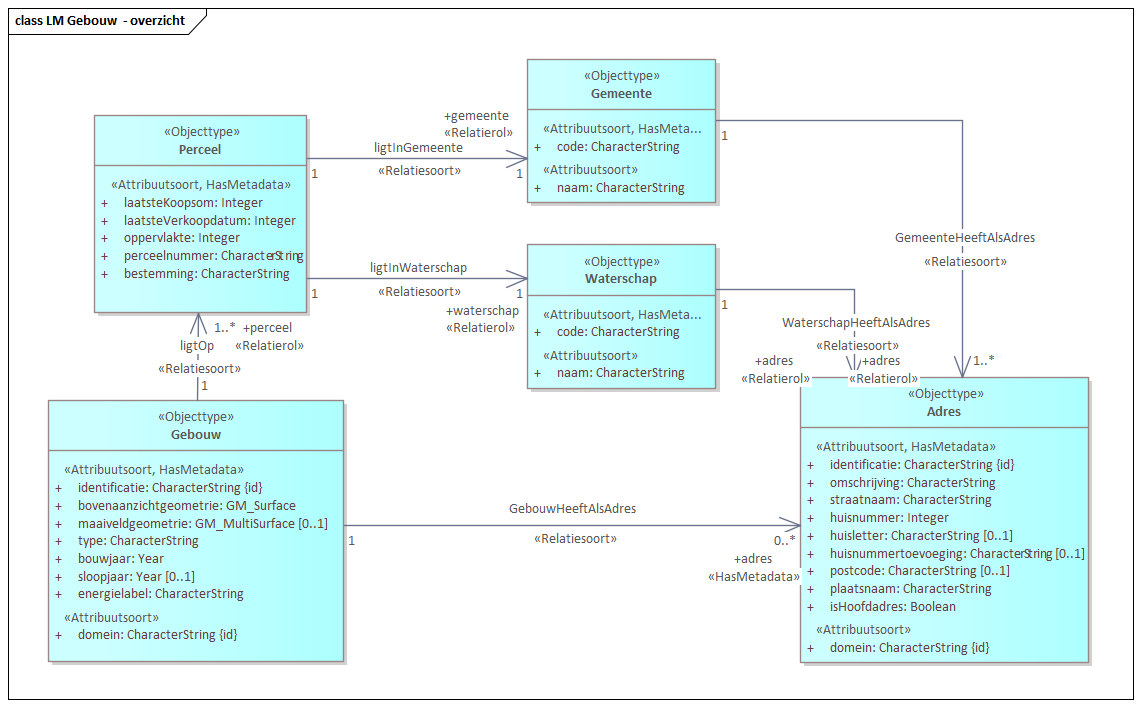
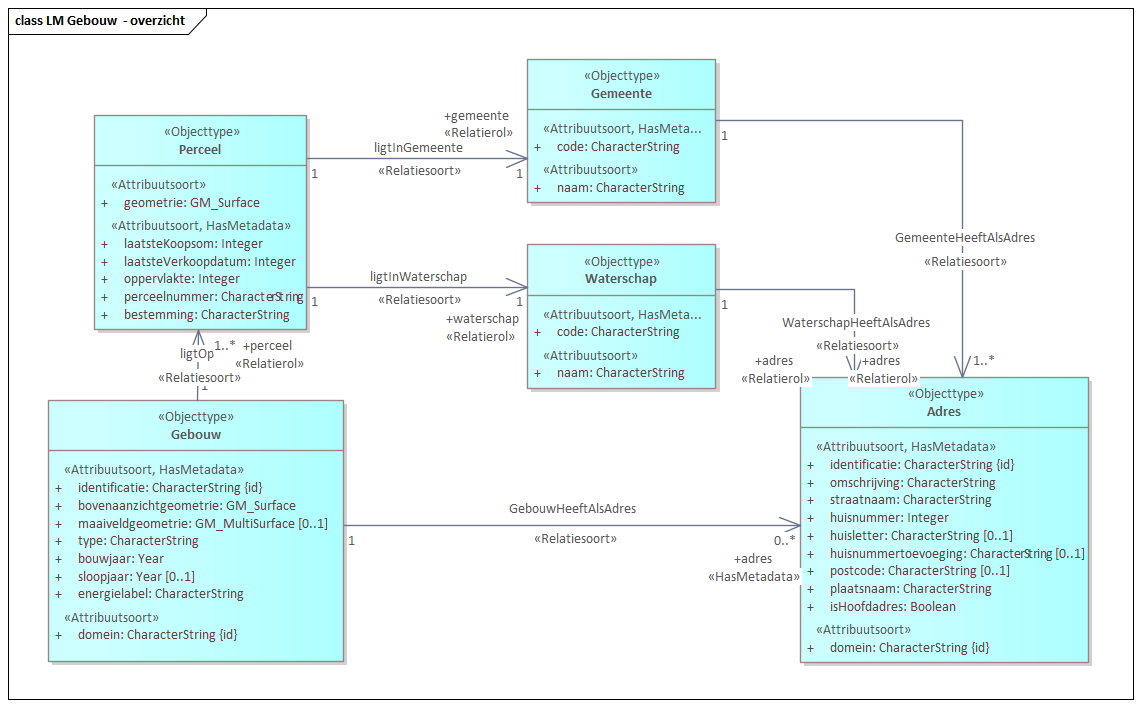
MIMCM-Gebouw-logisch-1.0-0-20230401-20230403-065710

Changed region(s): [[0.0613, 0.2489, 0.4601, 0.5601]]

diff --git a/data/WaU-UC3-cat.respec.html b/data/WaU-UC3-cat.respec.html
@@ -1,11 +1,11 @@
 
 <!DOCTYPE HTML><section id="cat" class="normative">
    <h2>Gegevensdefinitie</h2>
-   <!--MIMCM-Gebouw-logisch-1.0-0-20230401-20230403-065558 imvertor 2.0.0--><a class="anchor" id="global_package_Registratiegegevens"></a><section id="global_package_Registratiegegevens">
+   <!--MIMCM-Gebouw-logisch-1.0-0-20230401-20230403-065710 imvertor 2.0.0--><a class="anchor" id="global_package_Registratiegegevens"></a><section id="global_package_Registratiegegevens">
       <h3>Domein   Registratiegegevens</h3>
       <section id="EAID_50FEB38A_40C6_48b7_A5F7_21CB8FE1E6C5">
          <h4>   LM Registratiegegevens - overzicht</h4>
-         <div class="imageinfo overview"><img src="data/Images/EAID_50FEB38A_40C6_48b7_A5F7_21CB8FE1E6C5.png" usemap="#imagemap-EAID_50FEB38A_40C6_48b7_A5F7_21CB8FE1E6C5" alt="Diagram &#xA;                        &#xA;                     "><map name="imagemap-EAID_50FEB38A_40C6_48b7_A5F7_21CB8FE1E6C5"><area shape="rect" alt="Waterschap" coords="56,569,246,714" href="#graph_EAID_FB5658BC_FE15_448d_875A_140B3EE79AB2"><area shape="rect" alt="Perceel" coords="409,559,622,734" href="#graph_EAID_4A1CA6FC_D4A5_41a5_9BD4_BD6B16303F41"><area shape="rect" alt="Gemeente" coords="828,404,1018,549" href="#graph_EAID_2EA84099_049E_46b1_9441_C3877028F35C"><area shape="rect" alt="Gebouw" coords="706,59,985,310" href="#graph_EAID_88368E67_5068_4623_82B0_CFBA23798D84"><area shape="rect" alt="Registratiegegevens" coords="56,59,337,180" href="#graph_EAID_7DEC5472_21EE_4ba3_9C92_9C1D01D3450F"></map><p><b>LM Registratiegegevens - overzicht</b></p>
+         <div class="imageinfo overview"><img src="data/Images/EAID_50FEB38A_40C6_48b7_A5F7_21CB8FE1E6C5.png" usemap="#imagemap-EAID_50FEB38A_40C6_48b7_A5F7_21CB8FE1E6C5" alt="Diagram &#xA;                        &#xA;                     "><map name="imagemap-EAID_50FEB38A_40C6_48b7_A5F7_21CB8FE1E6C5"><area shape="rect" alt="Waterschap" coords="57,569,247,714" href="#graph_EAID_FB5658BC_FE15_448d_875A_140B3EE79AB2"><area shape="rect" alt="Perceel" coords="411,559,624,775" href="#graph_EAID_4A1CA6FC_D4A5_41a5_9BD4_BD6B16303F41"><area shape="rect" alt="Gemeente" coords="830,404,1019,549" href="#graph_EAID_2EA84099_049E_46b1_9441_C3877028F35C"><area shape="rect" alt="Gebouw" coords="707,59,987,310" href="#graph_EAID_88368E67_5068_4623_82B0_CFBA23798D84"><area shape="rect" alt="Registratiegegevens" coords="57,59,338,180" href="#graph_EAID_7DEC5472_21EE_4ba3_9C92_9C1D01D3450F"></map><p><b>LM Registratiegegevens - overzicht</b></p>
          </div>
       </section>
       <section id="">
@@ -103,7 +103,7 @@
       <h3>Domein   Gebouw</h3>
       <section id="EAID_5F7C3E6C_C360_4bbb_9B6D_68AB32915932">
          <h4>   LM Gebouw  - overzicht</h4>
-         <div class="imageinfo overview"><img src="data/Images/EAID_5F7C3E6C_C360_4bbb_9B6D_68AB32915932.png" usemap="#imagemap-EAID_5F7C3E6C_C360_4bbb_9B6D_68AB32915932" alt="Diagram &#xA;                        &#xA;                     "><map name="imagemap-EAID_5F7C3E6C_C360_4bbb_9B6D_68AB32915932"><area shape="rect" alt="Waterschap" coords="527,244,716,389" href="#graph_EAID_FB5658BC_FE15_448d_875A_140B3EE79AB2"><area shape="rect" alt="Gemeente" coords="527,59,716,203" href="#graph_EAID_2EA84099_049E_46b1_9441_C3877028F35C"><area shape="rect" alt="Perceel" coords="94,115,307,313" href="#graph_EAID_4A1CA6FC_D4A5_41a5_9BD4_BD6B16303F41"><area shape="rect" alt="Adres" coords="800,377,1089,663" href="#graph_EAID_878292C3_0E77_424a_B7CB_CEDC5517C209"><area shape="rect" alt="Gebouw" coords="48,400,344,662" href="#graph_EAID_88368E67_5068_4623_82B0_CFBA23798D84"></map><p><b>LM Gebouw  - overzicht</b></p>
+         <div class="imageinfo overview"><img src="data/Images/EAID_5F7C3E6C_C360_4bbb_9B6D_68AB32915932.png" usemap="#imagemap-EAID_5F7C3E6C_C360_4bbb_9B6D_68AB32915932" alt="Diagram &#xA;                        &#xA;                     "><map name="imagemap-EAID_5F7C3E6C_C360_4bbb_9B6D_68AB32915932"><area shape="rect" alt="Waterschap" coords="527,244,716,389" href="#graph_EAID_FB5658BC_FE15_448d_875A_140B3EE79AB2"><area shape="rect" alt="Gemeente" coords="527,59,716,203" href="#graph_EAID_2EA84099_049E_46b1_9441_C3877028F35C"><area shape="rect" alt="Perceel" coords="94,115,307,330" href="#graph_EAID_4A1CA6FC_D4A5_41a5_9BD4_BD6B16303F41"><area shape="rect" alt="Adres" coords="800,377,1089,663" href="#graph_EAID_878292C3_0E77_424a_B7CB_CEDC5517C209"><area shape="rect" alt="Gebouw" coords="48,400,344,662" href="#graph_EAID_88368E67_5068_4623_82B0_CFBA23798D84"></map><p><b>LM Gebouw  - overzicht</b></p>
          </div>
       </section>
       <section id="">
@@ -247,6 +247,16 @@
                      <th>Definitie</th>
                      <th>Formaat</th>
                      <th>Card</th>
+                  </tr>
+                  <tr>
+                     <td>
+                        <a class="link" href="#detail_attribute_Gebouw_Perceel_geometrie">geometrie</a>
+                        </td>
+                     <td></td>
+                     <td>
+                        GM_Surface
+                        </td>
+                     <td>1</td>
                   </tr>
                   <tr>
                      <td>
@@ -787,6 +797,42 @@
                </section>
             <a class="anchor" id="detail_class_Gebouw_Perceel"></a><section id="detail_class_Gebouw_Perceel">
                <h6>   Perceel</h6>
+               <a class="anchor" id="detail_attribute_Gebouw_Perceel_geometrie"></a><div class="deepheader" id="detail_attribute_Gebouw_Perceel_geometrie">
+                  <h7>Attribuutsoort details  <a href="#global_class_Gebouw_Perceel">Perceel</a> geometrie</h7>
+                  
+                  <table style="width: 100%;">
+                     <colgroup style="width: 30%;"></colgroup>
+                     <colgroup style="width: 70%;"></colgroup>
+                     <tbody>
+                        <tr>
+                           <th>Naam</th>
+                           <td>geometrie</td>
+                        </tr>
+                        <tr>
+                           <th>Mogelijk geen waarde</th>
+                           <td>Nee</td>
+                        </tr>
+                        <tr>
+                           <th>Indicatie materiële historie</th>
+                           <td>Nee</td>
+                        </tr>
+                        <tr>
+                           <th>Indicatie formele historie</th>
+                           <td>Nee</td>
+                        </tr>
+                        <tr>
+                           <th>Kardinaliteit</th>
+                           <td>1</td>
+                        </tr>
+                        <tr>
+                           <th>Type</th>
+                           <td>
+                              GM_Surface
+                              </td>
+                        </tr>
+                     </tbody>
+                  </table>
+                  </div>
                <a class="anchor" id="detail_attribute_Gebouw_Perceel_laatsteKoopsom"></a><div class="deepheader" id="detail_attribute_Gebouw_Perceel_laatsteKoopsom">
                   <h7>Attribuutsoort details  <a href="#global_class_Gebouw_Perceel">Perceel</a> laatsteKoopsom</h7>
                   
